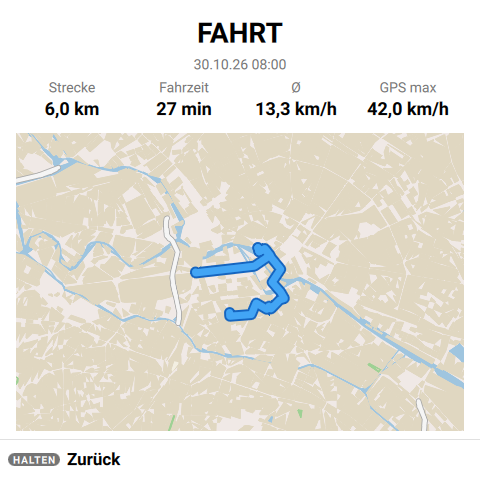
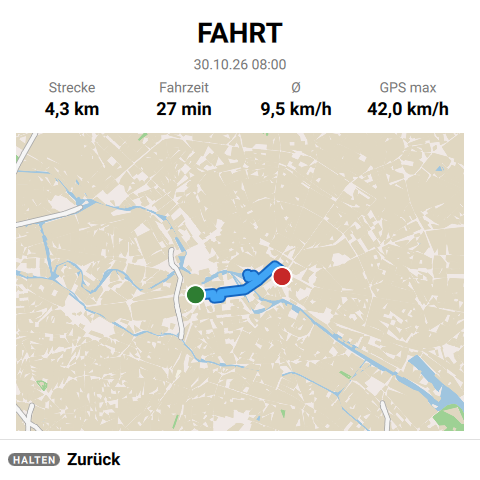
news: show trip endpoints in example

diff --git a/_news/de/librescoot-1-4.md b/_news/de/librescoot-1-4.md
@@ -53,7 +53,7 @@ Auf Wunsch öffnet sich die Sitzbank beim Entsperren automatisch, auch mit einer
 
 Das Fahrtenbuch speichert Strecke, Dauer und GPS-Verlauf auf dem Roller. Unter Fahrtenverlauf lassen sich abgeschlossene Fahrten mit Strecke, Fahrzeit und Durchschnittsgeschwindigkeit direkt am Tacho ansehen. Aufgezeichnete GPS-Spuren können auf der Karte angezeigt werden. Die Aufbewahrung lässt sich nach Alter, Fahrtenzahl oder Speichergröße begrenzen; die automatische Löschung kann auch ausgeschaltet werden. Kurze Strecken unter 100 Metern laut Kilometerzähler werden nicht als abgeschlossene Fahrt gespeichert.
 
-{% include news-screenshot.html src="/images/news/librescoot-1-4-trip-de.png" alt="Fahrtdetails mit Beispielwerten und GPS-Spur auf der Karte" caption='Fahrtdetails mit Beispieldaten und einer GPS-Spur entlang öffentlicher Straßen. Kartendaten © <a href="https://www.openstreetmap.org/copyright">OpenStreetMap-Mitwirkende</a>.' %}
+{% include news-screenshot.html src="/images/news/librescoot-1-4-trip-de.png" alt="Fahrtdetails mit Beispielwerten und GPS-Spur auf der Karte" caption='Fahrtdetails mit Beispieldaten und GPS-Spur. Start- und Endmarkierung sind ab Dashboard 1.24.1 verfügbar. Kartendaten © <a href="https://www.openstreetmap.org/copyright">OpenStreetMap-Mitwirkende</a>.' %}
 
 Auch der Tageskilometerzähler bleibt beim Ausschalten erhalten und zählt unabhängig vom Fahrtenbuch. Das Zurücksetzen ist konfigurierbar: nach jeder Fahrt, täglich, beim Akkuwechsel oder nur von Hand.
 

diff --git a/_news/en/librescoot-1-4.md b/_news/en/librescoot-1-4.md
@@ -53,7 +53,7 @@ An optional setting can open the seatbox automatically when the scooter is unloc
 
 The trip log saves distance, duration and GPS tracks on the scooter. Under Trip history, you can view completed rides with distance, riding time and average speed directly on the dashboard. Recorded GPS tracks can be shown on the map. Retention can be limited by age, number of trips or storage size, or automatic deletion can be turned off. Short distances below 100 metres on the odometer are not saved as completed trips.
 
-{% include news-screenshot.html src="/images/news/librescoot-1-4-trip-en.png" alt="Trip details with example values and a GPS track on the map" caption='Trip details with example data and a GPS track following public streets. Map data © <a href="https://www.openstreetmap.org/copyright">OpenStreetMap contributors</a>.' %}
+{% include news-screenshot.html src="/images/news/librescoot-1-4-trip-en.png" alt="Trip details with example values and a GPS track on the map" caption='Trip details with example data and a GPS track. Start and end markers are available from dashboard 1.24.1. Map data © <a href="https://www.openstreetmap.org/copyright">OpenStreetMap contributors</a>.' %}
 
 The trip counter also keeps its distance when the scooter is switched off and counts independently of trip history. Choose whether it resets after each ride, daily, on a battery swap or only manually.
 
